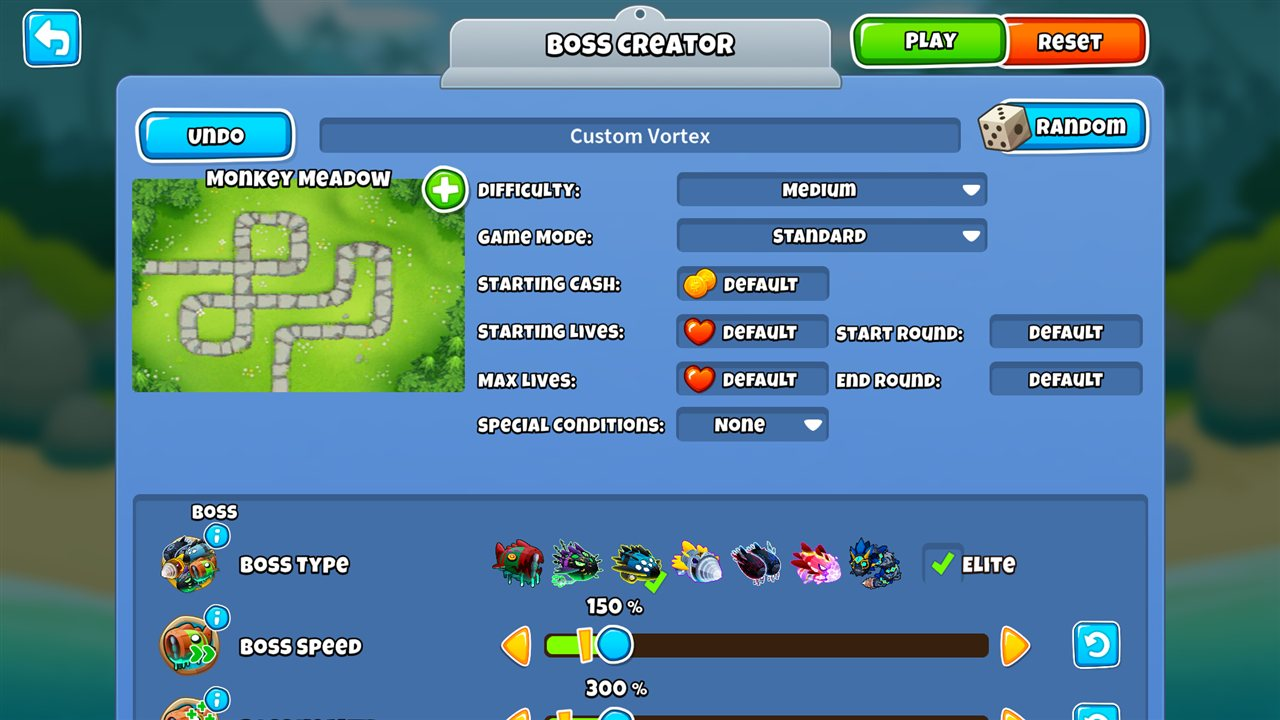
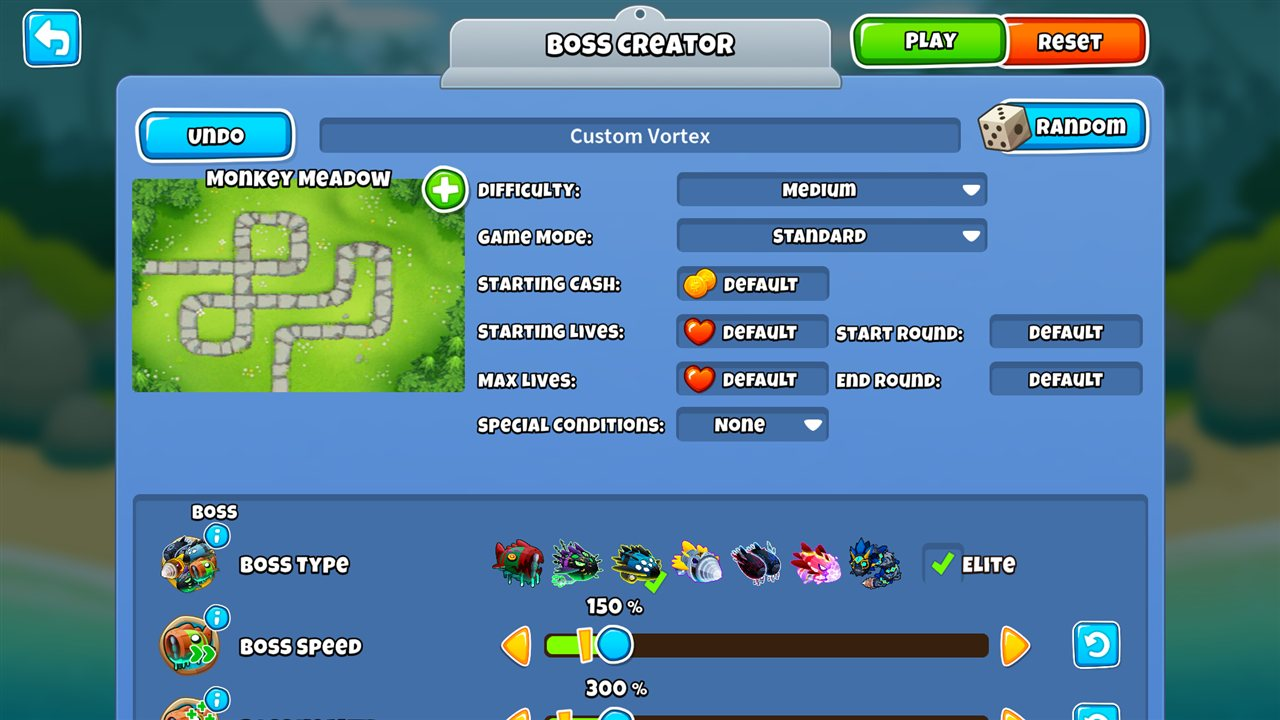
Move All Fortified to the editor's own modifiers
All Fortified is now a button among the Challenge Editor's modifiers, a copy of All Camo's, instead of a
row in the Boss section. The game moves, lists and explains it like its own; the mod reads and writes
bloonModifiers.allFortified and only adds the button in the Boss Creator.

Changed region(s): [[0.9062, 0.7028, 1.0, 0.825], [0.0, 0.7639, 0.0938, 0.825]]

diff --git a/Tests/BossCreatorTests.cs b/Tests/BossCreatorTests.cs
@@ -70,7 +70,7 @@ public class BossCreatorTest : CustomBossTest
         {
             if (info.name == EditorRows.InfoName) infoButtons++;
         }
-        AssertEquals(infoButtons, 14, "Info buttons in the boss section");
+        AssertEquals(infoButtons, 13, "Info buttons in the boss section");
 
         section.Tiers.Row.transform.Find($"Image/{EditorRows.InfoName}").GetComponent<Button>().onClick.Invoke();
         Il2CppAssets.Scripts.Unity.UI_New.Popups.Popup? popup = null;
@@ -87,7 +87,26 @@ public class BossCreatorTest : CustomBossTest
         section.Elite.SetChecked(true, true);
         section.BossSpeed.Slider.value = 150;
         section.BossHealth.Slider.value = 300;
-        section.AllFortified.SetChecked(true, true);
+        // All Fortified is among the editor's own modifiers, first in the excluded list
+        var modifiers = AssertNotNull(FortifiedModifier.Settings(editor), "No modifier settings")!;
+        var fortified = AssertNotNull(FortifiedModifier.Find(modifiers), "No All Fortified modifier")!;
+        AssertEquals(fortified.transform.parent.Pointer, modifiers.excludedContainer.Pointer, "All Fortified starts excluded");
+        AssertEquals(fortified.transform.GetSiblingIndex(), 0, "All Fortified comes first");
+        foreach (var label in fortified.GetComponentsInChildren<TMP_Text>(true))
+        {
+            AssertEquals(label.text, Texts.AllFortified.T(), "All Fortified label");
+        }
+        modifiers.OpenEditPopup();
+        yield return new WaitForSecondsRealtime(1);
+        fortified.Select();
+        AssertEquals(modifiers.descriptionTitle.text, Texts.AllFortified.T(), "All Fortified info title");
+        fortified.includeToggle.isOn = true;
+        yield return new WaitForSecondsRealtime(0.5f);
+        AssertEquals(fortified.transform.parent.Pointer, modifiers.includedContainer.Pointer, "All Fortified moves to included");
+        modifiers.FillMsbLists();
+        Assert(modifiers.includedMSB.Contains(fortified), "All Fortified is listed as included");
+        modifiers.CloseEditPopup();
+        yield return new WaitForSecondsRealtime(0.5f);
         section.MaxParagons.Slider.value = 1;
         section.Tiers.Slider.value = 7;
         section.SpeedPerTier.Slider.value = 20;
@@ -246,6 +265,8 @@ public class BossCreatorTest : CustomBossTest
             AssertEquals(section.SpeedPerTier.Value, (float) BossMode.Options.SpeedPerTier, "Random speed per tier shown");
             AssertEquals(section.HealthPerTier.Value, (float) BossMode.Options.HealthPerTier, "Random health per tier shown");
             AssertEquals(section.SkullMode.Dropdown.value, (int) BossMode.Options.SkullMode, "Random skull mode shown");
+            AssertEquals(FortifiedModifier.Find(FortifiedModifier.Settings(editor))!.includeToggle.isOn,
+                editor.dcm.bloonModifiers.allFortified, "Random All Fortified shown among the modifiers");
             editor.ApplyUiSettingsToDCM();
             AssertEquals(BossEditorSection.PlayProblem(editor.dcm, BossMode.Options), null, "A random setup must be playable");
             Assert(Approximately(editor.dcm.bloonModifiers.bossSpeedMultiplier, section.BossSpeed.Value / 100f),
@@ -298,6 +319,7 @@ public class BossCreatorTest : CustomBossTest
         Assert(play == null || !play.gameObject.activeSelf, "The normal Challenge Editor shows the boss Play button");
         var title = editor.transform.Find("TopInfo/Title")?.GetComponent<TMP_Text>();
         Assert(title == null || title.text != BossEditorSection.Title, "The normal Challenge Editor is titled Boss Creator");
+        AssertEquals(FortifiedModifier.Find(FortifiedModifier.Settings(editor)), null, "The normal Challenge Editor has the All Fortified modifier");
 
         MenuManager.instance.Back();
         yield return ToMainMenu();
@@ -394,7 +416,8 @@ public class BossCreatorTest : CustomBossTest
     private IEnumerator ResetClearsBossOptions(ChallengeEditor editor)
     {
         var section = BossEditorSection.Current!;
-        section.AllFortified.SetChecked(true, true);
+        var fortified = FortifiedModifier.Find(FortifiedModifier.Settings(editor))!;
+        fortified.includeToggle.isOn = true;
         section.MaxParagons.Slider.value = 2;
         section.SkullMode.Dropdown.value = (int) SkullMode.Custom;
 
@@ -422,7 +445,7 @@ public class BossCreatorTest : CustomBossTest
         AssertEquals(section.BossHealth.Value, 100f, "Boss health shown after reset");
         AssertEquals(section.Tiers.Value, 5f, "Tiers shown after reset");
         AssertEquals(section.CustomSkulls.InputField.text, new BossOptions().CustomSkulls, "Skulls shown after reset");
-        Assert(!section.AllFortified.CurrentValue, "All fortified shown after reset");
+        Assert(!fortified.includeToggle.isOn, "All fortified shown after reset");
         Assert(Approximately(editor.dcm.bloonModifiers.bossSpeedMultiplier, 1), "Boss speed in the model after reset");
         Assert(Approximately(editor.dcm.bloonModifiers.healthMultipliers.boss, 1), "Boss health in the model after reset");
         Assert(!editor.dcm.bloonModifiers.allFortified, "All fortified in the model after reset");

diff --git a/Menus/FortifiedModifier.cs b/Menus/FortifiedModifier.cs
@@ -1,0 +1,102 @@
+using BTD_Mod_Helper.Api.Enums;
+using BTD_Mod_Helper.Extensions;
+using Il2CppAssets.Scripts.Models.ServerEvents;
+using Il2CppAssets.Scripts.Unity.UI_New.ChallengeEditor;
+using UnityEngine;
+using Object = UnityEngine.Object;
+
+namespace CustomBossChallenge.Menus;
+
+/// <summary>
+/// An All Fortified button among the Challenge Editor's own modifiers (All Camo, All Regrow, ...), only while the
+/// editor is the Boss Creator. It is a copy of the All Camo button, and the game moves it between Excluded and
+/// Included, lists it and shows its info like its own; only reading and writing the challenge is up to the mod.
+/// </summary>
+public static class FortifiedModifier
+{
+    public const string ButtonName = "AllFortifiedToggle";
+
+    public static ChallengeEditorModifierSettings? Settings(ChallengeEditor editor) =>
+        editor.GetComponentInChildren<ChallengeEditorModifierSettings>(true);
+
+    /// <summary>
+    /// The button, or null outside of the Boss Creator
+    /// </summary>
+    public static ModifierSettingsButton? Find(ChallengeEditorModifierSettings? settings)
+    {
+        if (settings == null) return null;
+        var button = settings.excludedContainer.Find(ButtonName) ?? settings.includedContainer.Find(ButtonName);
+        return button != null ? button.GetComponent<ModifierSettingsButton>() : null;
+    }
+
+    /// <summary>
+    /// Adds the button if it isn't there yet, showing <paramref name="dcm"/>'s value
+    /// </summary>
+    public static void Add(ChallengeEditor editor, DailyChallengeModel? dcm)
+    {
+        var settings = Settings(editor);
+        if (settings == null || settings.allCamoToggle == null) return;
+
+        var button = Find(settings);
+        if (button == null)
+        {
+            button = Object.Instantiate(settings.allCamoToggle.gameObject, settings.excludedContainer, false)
+                .GetComponent<ModifierSettingsButton>();
+            button.name = ButtonName;
+            button.titleLocKey = Texts.AllFortified;
+            button.descriptionLocKey = Texts.AllFortifiedInfo;
+            button.parentPanel = settings;
+            button.icon.SetSprite(VanillaSprites.FortifiedBloonsIcon);
+
+            // The label was localized when the All Camo button was made; it must not localize back to All Camo
+            foreach (var text in button.GetComponentsInChildren<Il2CppTMPro.TMP_Text>(true))
+            {
+                EditorRows.SetText(text, Texts.AllFortified.T());
+            }
+
+            // Like the game's own buttons, it starts excluded; first in the list, next to the camo and regrow ones
+            button.transform.SetSiblingIndex(0);
+            button.SetValue(false);
+        }
+
+        if (dcm?.bloonModifiers != null) button.SetValue(dcm.bloonModifiers.allFortified);
+        settings.FillMsbLists();
+        settings.SetDisplayIcons();
+    }
+
+    /// <summary>
+    /// Takes the button out again, so the normal Challenge Editor never has it
+    /// </summary>
+    public static void Remove(ChallengeEditor editor)
+    {
+        var settings = Settings(editor);
+        var button = Find(settings);
+        if (settings == null || button == null) return;
+
+        // Out of its container right away, so the game's lists don't pick it up before it is destroyed
+        button.transform.SetParent(null, false);
+        Object.Destroy(button.gameObject);
+        settings.FillMsbLists();
+        settings.SetDisplayIcons();
+    }
+
+    /// <summary>
+    /// Shows the challenge's value on the button, if there is one
+    /// </summary>
+    public static void Show(ChallengeEditorModifierSettings settings, DailyChallengeModel dcm)
+    {
+        var button = Find(settings);
+        if (button != null && dcm.bloonModifiers != null) button.SetValue(dcm.bloonModifiers.allFortified);
+    }
+
+    /// <summary>
+    /// Writes the button's value into the challenge, if there is a button
+    /// </summary>
+    public static void Save(ChallengeEditorModifierSettings settings, DailyChallengeModel dcm)
+    {
+        var button = Find(settings);
+        if (button == null) return;
+        dcm.bloonModifiers ??= new BloonModifiers();
+        dcm.bloonModifiers.allFortified = button.includeToggle.isOn;
+    }
+}

diff --git a/Menus/BossEditorSection.cs b/Menus/BossEditorSection.cs
@@ -59,7 +59,6 @@ public sealed class BossEditorSection
     public SliderRow SkullCount { get; private set; } = null!;
     public SliderRow MaxParagons { get; private set; } = null!;
     public ModHelperCheckbox Elite { get; private set; } = null!;
-    public ModHelperCheckbox AllFortified { get; private set; } = null!;
     public ModHelperDropdown SkullMode { get; private set; } = null!;
     public ModHelperInputField CustomSkulls { get; private set; } = null!;
     public ModHelperInputField SpawnRounds { get; private set; } = null!;
@@ -179,12 +178,6 @@ public sealed class BossEditorSection
         BossHealth = SliderRow.Clone(template, rows, "BossHealthRow", Texts.BossHealth.T(), VanillaSprites.BossBoostIcon,
             10, 2000, 10, 100, Percent, value => UpdateDcm(dcm => dcm.bloonModifiers.healthMultipliers.boss = value / 100f));
 
-        var fortifiedRow = EditorRows.LabelRow(template, rows, "FortifiedRow", Texts.AllFortified.T(), VanillaSprites.FortifiedBloonsIcon);
-        AllFortified = ModHelperCheckbox.Create(EditorRows.ControlInfo("AllFortified", 150, 150),
-            false, VanillaSprites.BlueInsertPanelRound,
-            new Action<bool>(value => UpdateDcm(dcm => dcm.bloonModifiers.allFortified = value)), VanillaSprites.TickGreenIcon, 20);
-        AllFortified.transform.SetParent(fortifiedRow.transform, false);
-
         // The last position means no limit
         var paragons = ParagonMath.Available;
         MaxParagons = SliderRow.Clone(template, rows, "MaxParagonsRow", Texts.MaxParagons.T(), VanillaSprites.ParagonLimitIcon,
@@ -262,7 +255,6 @@ public sealed class BossEditorSection
         EditorRows.AddInfo(bossRow, Texts.BossType, Texts.BossTypeInfo);
         EditorRows.AddInfo(BossSpeed.Row, Texts.BossSpeed, Texts.BossSpeedInfo);
         EditorRows.AddInfo(BossHealth.Row, Texts.BossHealth, Texts.BossHealthInfo);
-        EditorRows.AddInfo(fortifiedRow, Texts.AllFortified, Texts.AllFortifiedInfo);
         EditorRows.AddInfo(MaxParagons.Row, Texts.MaxParagons, Texts.MaxParagonsInfo);
         EditorRows.AddInfo(Tiers.Row, Texts.BossTiers, Texts.BossTiersInfo);
         EditorRows.AddInfo(SpeedPerTier.Row, Texts.SpeedPerTier, Texts.SpeedPerTierInfo);
@@ -422,6 +414,7 @@ public sealed class BossEditorSection
 
         editor.sliderSettings?.transform.parent?.Find(SectionName)?.gameObject.SetActive(false);
         editor.transform.Find(PlayName)?.gameObject.SetActive(false);
+        FortifiedModifier.Remove(editor);
     }
 
     private void SetVisible(bool show)
@@ -443,6 +436,9 @@ public sealed class BossEditorSection
             }
         }
 
+        if (show) FortifiedModifier.Add(Editor, Editor.dcm);
+        else FortifiedModifier.Remove(Editor);
+
         if (show) Load(Editor.dcm, BossMode.Options);
         Relayout();
     }
@@ -459,7 +455,6 @@ public sealed class BossEditorSection
             {
                 BossSpeed.Show(Mathf.Round(dcm.bloonModifiers.bossSpeedMultiplier * 100));
                 BossHealth.Show(Mathf.Round(dcm.bloonModifiers.healthMultipliers.boss * 100));
-                AllFortified.SetChecked(dcm.bloonModifiers.allFortified, false);
                 MaxParagons.Show(ParagonMath.ToSlider(dcm.maxParagons, (int) MaxParagons.Slider.maxValue));
             }
 
@@ -491,7 +486,6 @@ public sealed class BossEditorSection
         dcm.bloonModifiers.healthMultipliers ??= new BloonHealthMultipliers();
         dcm.bloonModifiers.bossSpeedMultiplier = BossSpeed.Value / 100f;
         dcm.bloonModifiers.healthMultipliers.boss = BossHealth.Value / 100f;
-        dcm.bloonModifiers.allFortified = AllFortified.CurrentValue;
         dcm.maxParagons = ParagonMath.FromSlider((int) MaxParagons.Value, (int) MaxParagons.Slider.maxValue);
     }
 

diff --git a/Patches/ChallengeEditorPatches.cs b/Patches/ChallengeEditorPatches.cs
@@ -3,6 +3,7 @@ using CustomBossChallenge.Creator;
 using CustomBossChallenge.Menus;
 using HarmonyLib;
 using Il2CppAssets.Scripts.Data.Boss;
+using Il2CppAssets.Scripts.Models.ServerEvents;
 using Il2CppAssets.Scripts.Unity.UI_New.ChallengeEditor;
 using Il2CppAssets.Scripts.Unity.UI_New.DailyChallenge;
 using Object = UnityEngine.Object;
@@ -81,6 +82,8 @@ internal static class ChallengeEditor_Clear
         modifiers.healthMultipliers.boss = 1;
         modifiers.allFortified = false;
         __instance.dcm.maxParagons = ParagonMath.NoLimit;
+        var settings = FortifiedModifier.Settings(__instance);
+        if (settings != null) FortifiedModifier.Show(settings, __instance.dcm);
 
         // Like a new setup: the first boss, Bloonarius, with its default challenge name
         BossMode.Options = new BossOptions();
@@ -129,4 +132,24 @@ internal static class MapSelectPanel_Open
         bossType = BossMode.Options.Boss;
         showBossVisuals = true;
     }
+}
+
+/// <summary>
+/// The Boss Creator's All Fortified button among the editor's modifiers shows and sets the challenge's value; the game
+/// only knows its own modifiers
+/// </summary>
+[HarmonyPatch(typeof(ChallengeEditorModifierSettings), nameof(ChallengeEditorModifierSettings.ApplyDCMtoUI))]
+internal static class ChallengeEditorModifierSettings_ApplyDCMtoUI
+{
+    [HarmonyPostfix]
+    internal static void Postfix(ChallengeEditorModifierSettings __instance, DailyChallengeModel dcm) =>
+        FortifiedModifier.Show(__instance, dcm);
+}
+
+[HarmonyPatch(typeof(ChallengeEditorModifierSettings), nameof(ChallengeEditorModifierSettings.ApplyUIToDCM))]
+internal static class ChallengeEditorModifierSettings_ApplyUIToDCM
+{
+    [HarmonyPostfix]
+    internal static void Postfix(ChallengeEditorModifierSettings __instance, DailyChallengeModel dcm) =>
+        FortifiedModifier.Save(__instance, dcm);
 }

diff --git a/Tests/ScreenshotTour.cs b/Tests/ScreenshotTour.cs
@@ -64,6 +64,8 @@ public class ScreenshotTour : CustomBossTest
             editor!.dcm.bloonModifiers.bossSpeedMultiplier = 1.5f;
             editor.dcm.bloonModifiers.healthMultipliers.boss = 3;
             editor.dcm.maxParagons = 1;
+            editor.dcm.bloonModifiers.allFortified = true;
+            editor.dcm.bloonModifiers.allCamo = true;
             BossEditorSection.Current!.Load(editor.dcm, BossMode.Options);
             yield return new WaitForSecondsRealtime(1);
             yield return Capture(folder, "editor-top");
@@ -80,6 +82,20 @@ public class ScreenshotTour : CustomBossTest
                 scroll.verticalNormalizedPosition = position;
                 yield return new WaitForSecondsRealtime(1);
                 yield return Capture(folder, $"editor-{(int) (100 - position * 100)}");
+            }
+
+            // All Fortified among the editor's own modifiers
+            var modifiers = FortifiedModifier.Settings(editor);
+            if (modifiers != null)
+            {
+                modifiers.ApplyDCMtoUI(editor.dcm);
+                modifiers.OpenEditPopup();
+                yield return new WaitForSecondsRealtime(1.5f);
+                FortifiedModifier.Find(modifiers)?.Select();
+                yield return new WaitForSecondsRealtime(0.5f);
+                yield return Capture(folder, "modifiers");
+                modifiers.CloseEditPopup();
+                yield return new WaitForSecondsRealtime(1);
             }
 
             Object.FindObjectOfType<CommonForegroundScreen>().backBtn.onClick.Invoke();

diff --git a/README.md b/README.md
@@ -18,19 +18,20 @@ Event and your Boss Challenge records and saves are never affected.
 - **Boss Creator button** with the mod's logo on the main menu, just below the event buttons on the right.
 - **The real Challenge Editor** with everything it normally has: map, difficulty, game mode, starting cash, lives
   and rounds, special conditions, tower restrictions, bloon sliders and modifiers.
+- **All Fortified** among the editor's own modifiers, next to All Camo and All Regrow. The game has the rule but
+  the vanilla editor doesn't offer it; it is only added in the Boss Creator.
 - **Boss section** at the top of the editor:
   - Pick any boss (Bloonarius, Lych, Vortex, Dreadbloon, Phayze, Blastapopoulos, Diamondback) and toggle **Elite**.
   - **Boss Speed** and **Boss Health** sliders, using the game's own boss multipliers (the same ones Ninja Kiwi uses
     for weekly events such as "Vortex at 150% speed").
-  - **All Fortified**, which the vanilla editor doesn't offer.
   - **Max Paragons**, the paragon limit events use, from 0 to Unlimited.
-  - **Boss Tiers** from 1 to 10. Tiers above 5 are copies of tier 5 with +50 % health per tier.
+  - **Boss Tiers** from 1 to 10. Tiers above 5 are copies of tier 5 with +50 % health per tier. With fewer than 5
+    tiers, beating the last one wins the game.
   - **Speed per Tier** and **Health per Tier**: make every tier faster and tougher than the one before it, on top of
     the game's own steps (or easier, below 0). The steps add up evenly: +100 % health makes tiers 2-5 ×2, ×3, ×4
     and ×5.
   - **Tier Preview**: a card per tier with the round it arrives on, its speed and its health, orange where it is
     harder than the normal game and blue where it is easier.
-    With fewer than 5 tiers, beating the last one wins the game.
   - **Spawn Rounds** for every tier (default 40, 60, 80, 100, 120, then every 20 rounds).
   - **Skulls**: keep the vanilla skulls, space any number evenly across the health bar, or place them at exact health
     percentages. Works for every boss and Elite tier (Lych uses its ethereal thresholds).
@@ -45,6 +46,8 @@ Event and your Boss Challenge records and saves are never affected.
 ![Boss options](docs/boss-options.jpg)
 
 ![Info popup](docs/info-popup.jpg)
+
+![All Fortified among the modifiers](docs/modifiers.jpg)
 
 ## Usage
 
@@ -86,7 +89,6 @@ CBC1:q1bKV7KqrtVRSgZSSsWpqSlKVoamZiZGFmbGlrW1AA
 | Boss Type | 7 bosses | Bloonarius | Elite toggle next to it. |
 | Boss Speed | 10–1000 % | 100 % | |
 | Boss Health | 10–2000 % | 100 % | |
-| All Fortified | on / off | off | |
 | Max Paragons | 0 – Unlimited | Unlimited | How many paragons can be placed. 0 allows none; all the way to the right has no limit. |
 | Boss Tiers | 1–10 | 5 | The game is won when the last tier is defeated. |
 | Speed per Tier | −10 to +50 % | 0 % | This share of a tier's normal speed is added for every tier after the first: +20 % makes tier 3 ×1.4. Capped at ×5. |

diff --git a/CHANGELOG.md b/CHANGELOG.md
@@ -19,6 +19,8 @@ and this project adheres to [Semantic Versioning](https://semver.org/spec/v2.0.0
 
 ### Changed
 
+- **All Fortified** moved from the Boss section to the editor's own modifiers, next to All Camo and All Regrow,
+  with the same include/exclude button, info and icon as the game's modifiers. It is only there in the Boss Creator.
 - **Reset** now also goes back to Bloonarius, the first boss, with its default challenge name, like a new setup.
   It used to keep the chosen boss.
 - Health per Tier replaces Extra Tier Health. Tiers above 5 still get +50 % health each by default. Saved setups and
